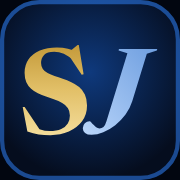
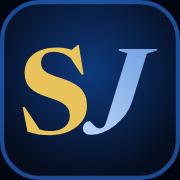
Chip-gold SLM, EACL 2027 chip, and a release workflow for TestPyPI and PyPI

Changed region(s): [[0.1111, 0.5278, 0.5, 0.75], [0.1389, 0.25, 0.4722, 0.3611]]

diff --git a/website/src/styles/tokens.css b/website/src/styles/tokens.css
@@ -119,7 +119,7 @@
   --floor-line: rgba(26, 111, 240, 0.1);
   /* "SLM" in the wordmark is gold; point --mark-slm at --mark-slm-plain for the earlier fill */
   --mark-slm: var(--mark-slm-gold);
-  --mark-slm-gold: linear-gradient(180deg, #c99a2e 0%, #a8820f 100%);
+  --mark-slm-gold: linear-gradient(#a8820f, #a8820f);
   --mark-slm-plain: linear-gradient(180deg, #0b1b33 0%, #1d3a66 100%);
   --mark-jury: linear-gradient(135deg, #3f6fb0 0%, #1d3a66 100%);
   --mark-glow: transparent;
@@ -203,7 +203,7 @@
   --star: rgba(214, 228, 247, 0.85);
   --trace: rgba(56, 198, 234, 0.22);
   --floor-line: rgba(56, 198, 234, 0.2);
-  --mark-slm-gold: linear-gradient(180deg, #f3dc9a 0%, #e2c068 50%, #c49a3a 100%);
+  --mark-slm-gold: linear-gradient(#e8c35a, #e8c35a);
   --mark-slm-plain: linear-gradient(180deg, #ffffff 0%, #b9d5fa 100%);
   --mark-jury: linear-gradient(135deg, #b9d5fa 0%, #6f9fe0 100%);
   --mark-glow: rgba(31, 111, 234, 0.42);
